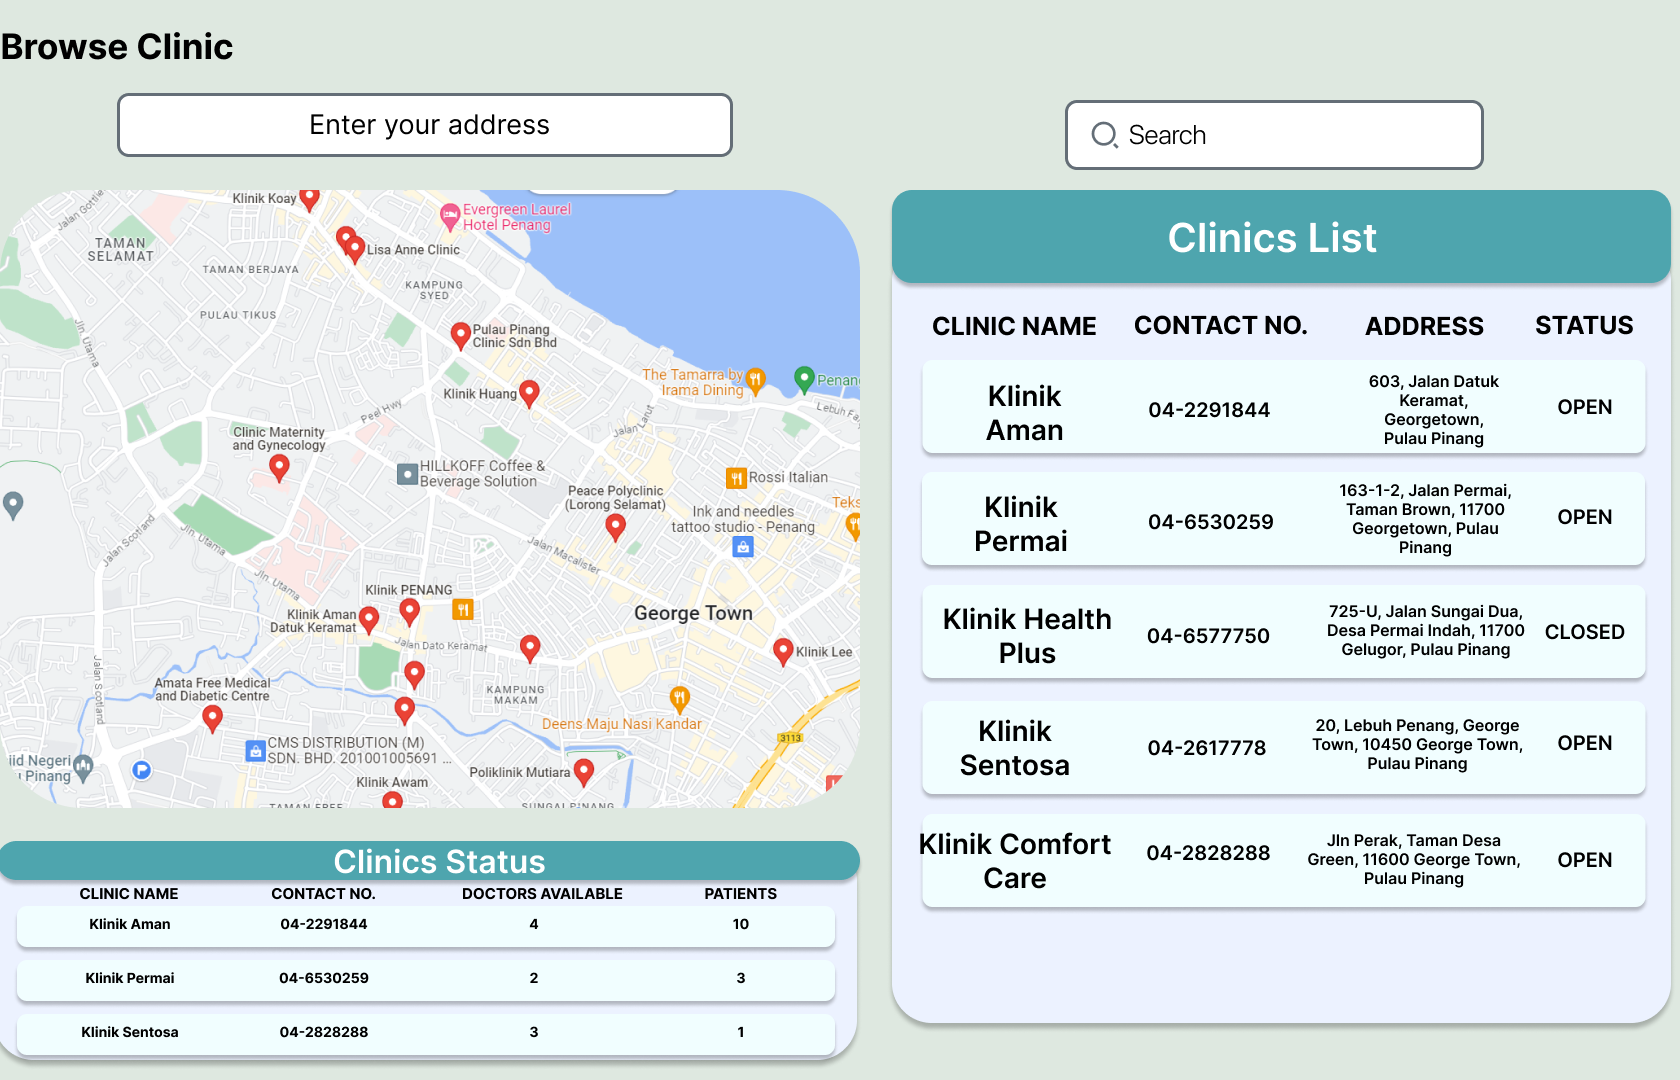
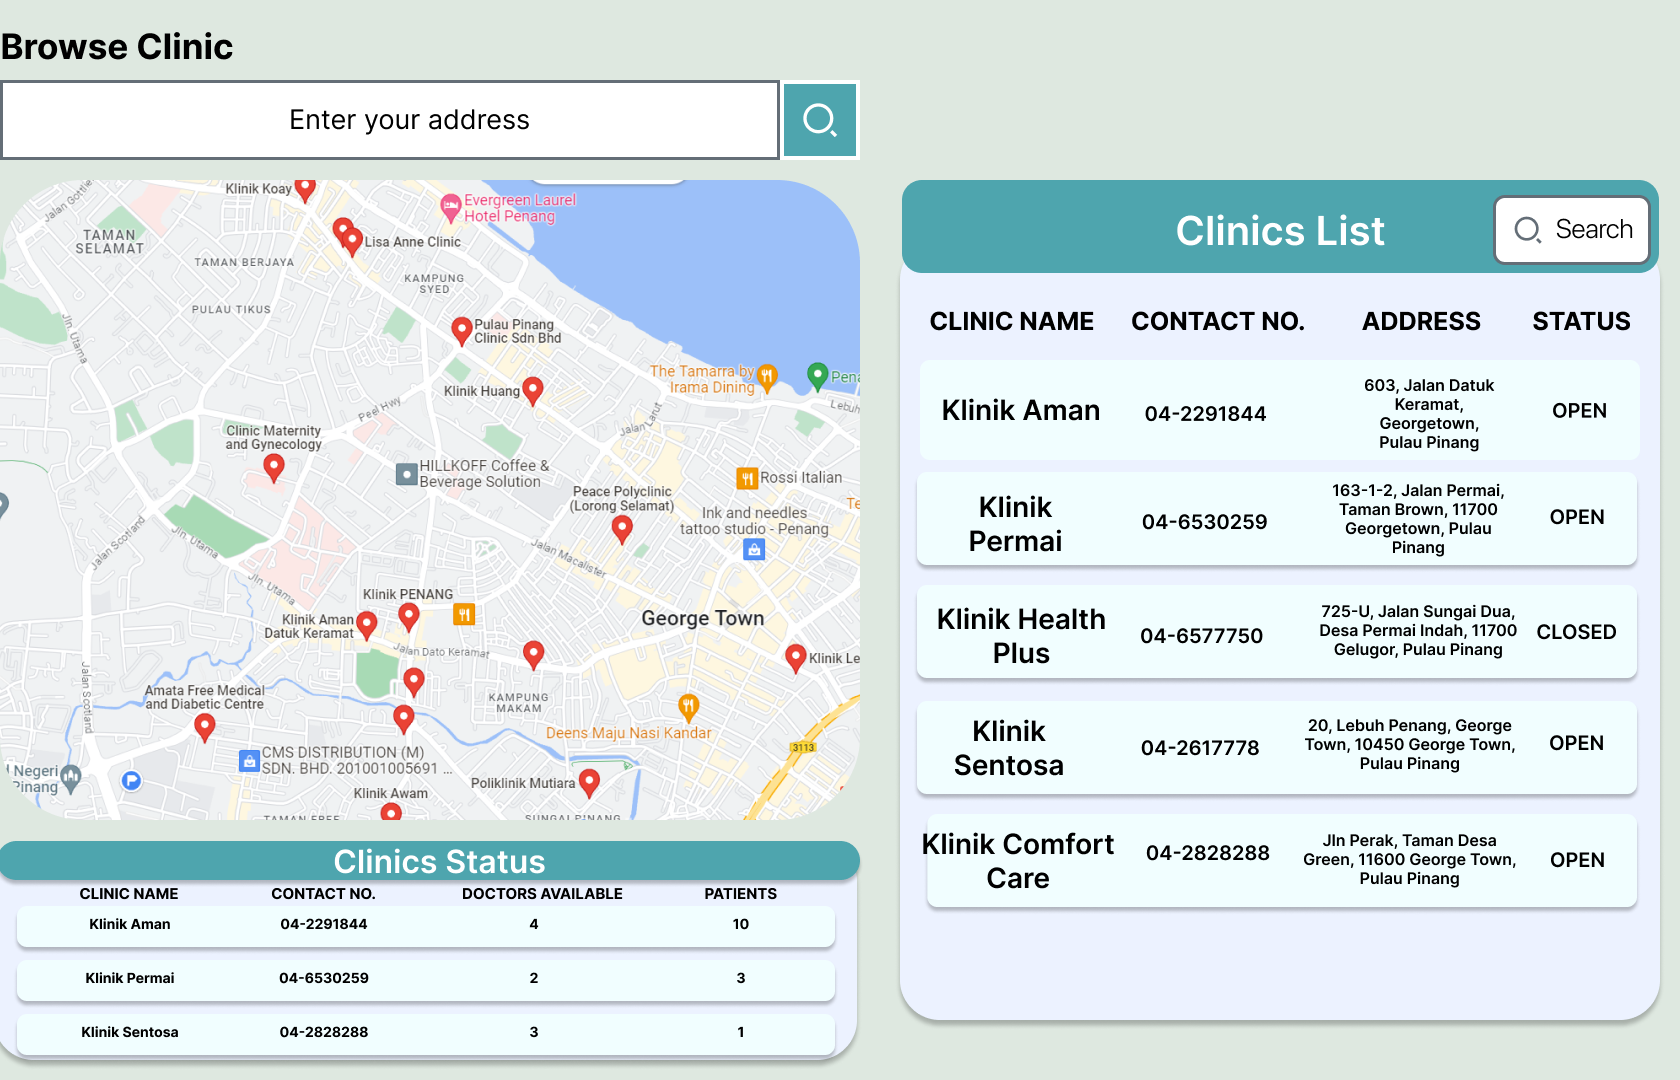
adding some code to have clinic creation for admin reg

diff --git a/views/registrationForms/adminForm.py b/views/registrationForms/adminForm.py
@@ -25,7 +25,7 @@ import tkintermapview
 
 
 class AdminRegistrationForm(Frame):
-    def __init__(self, parent=None, controller: ElementCreator = None):
+    def __init__(self, parent: RegistrationPage = None, controller: ElementCreator = None):
         super().__init__(parent, width=1, height=1,
                          bg="#dee8e0", name="roleregistrationform")
         self.controller = controller
@@ -38,7 +38,11 @@ class AdminRegistrationForm(Frame):
         self.createElements()
 
     def createFrames(self):
-        pass
+        self.inputframe = self.controller.frameCreator(
+            x=40, y=100, framewidth=720, frameheight=780,
+            bg=WHITE, classname="inputframe", root=self
+        )
+        self.inputframe.grid_remove()
 
     def createElements(self):
         self.controller.labelCreator(
@@ -47,6 +51,7 @@ class AdminRegistrationForm(Frame):
         )
         self.createLabels()
         self.createButtons()
+        self.createVars()
 
     def createLabels(self):
         self.roleImg = self.controller.labelCreator(
@@ -55,11 +60,11 @@ class AdminRegistrationForm(Frame):
         )
 
     def createButtons(self):
-        OPT1STR = "Clinic Information"
-        OPT2STR = "Upload Clinic Image"
-        OPT3STR = "Manage Doctors"
-        OPT4STR = "Other Information"
-        optList = [OPT1STR, OPT2STR, OPT3STR, OPT4STR]
+        self.OPT1STR = "Clinic Details"
+        self.OPT2STR = "Upload Clinic Image"
+        self.OPT3STR = "Manage Doctors"
+        self.OPT4STR = "Other Information"
+        optList = [self.OPT1STR, self.OPT2STR, self.OPT3STR, self.OPT4STR]
         # creating a button arrangement of two per row
         # iterates over the list of options and creates a button for each
         for i, option in enumerate(optList):
@@ -76,9 +81,187 @@ class AdminRegistrationForm(Frame):
             x=1420, y=880, classname="completeregbutton", root=self.parent,
             buttonFunction=lambda: self.confirmSubmission()
         )
+        self.closebutton = self.controller.buttonCreator(
+            ipath="assets/Registration/Close.png", x=80, y=680,
+            classname="reg_closebutton", root=self.inputframe,
+            buttonFunction=lambda: [self.inputframe.grid_remove()]
+        )
+        self.savebutton = self.controller.buttonCreator(
+            ipath="assets/Registration/Save.png", x=420, y=680,
+            classname="reg_savebutton", root=self.inputframe,
+            buttonFunction=lambda: [print('test')]
+        )
+        self.closebutton.grid_remove()
+        self.savebutton.grid_remove()
+
+    def createVars(self):
+        self.clinicnameVar = StringVar()
+        self.clinicaddressVar = StringVar()
+        self.cliniccityVar = StringVar()
+        self.clinicstateVar = StringVar()
+        self.cliniczipVar = StringVar()
+        self.cliniccontactnumberVar = StringVar()
 
     def loadSpecificSubmission(self, option: str):
-        print(option)
+
+        if option == self.OPT1STR:
+            self.loadClinicInformation(option)
+        elif option == self.OPT2STR:
+            self.loadUploadClinicImage(option)
+        elif option == self.OPT3STR:
+            self.loadManageDoctors(option)
+        elif option == self.OPT4STR:
+            self.loadOtherInformation(option)
+
+    def loadClinicInformation(self, option: str):
+        frame = self.inputframe
+        self.inputframe.grid()
+        self.inputframe.tkraise()
+        infolabel = self.controller.textElement(
+            ipath="assets/Registration/InputFormTextBG.png", x=0, y=0,
+            classname="inputformtext", root=frame, text=f"Input your {option} here",
+            size=30, font=INTER
+        )
+        bg = self.controller.labelCreator(
+            ipath="assets/Registration/Admin/ClinicInfoLabelBg.png", x=0, y=80,
+            classname="clinicinfobg", root=frame
+        )
+        bg.tk.call("lower", bg._w)
+        vars = [self.clinicnameVar, self.clinicaddressVar, self.cliniccityVar,
+                self.clinicstateVar, self.cliniczipVar, self.cliniccontactnumberVar
+                ]
+        if any([var.get() != "" for var in vars]):
+            self.loadClinicInformationInput()
+        else:
+            self.createClinicInfoEntries(frame)
+
+        self.savebutton.config(
+            command=lambda: [
+                self.saveClinicInformation()]
+        )
+        self.loadCloseAndSaveButtons()
+
+    def createClinicInfoEntries(self, frame):
+        CREATOR = self.controller.ttkEntryCreator
+        X, Y, W, H, R, CN, PH = "x", "y", "width", "height", "root", "classname", "placeholder"
+        param = {
+            "clinicname": {
+                X: 40,
+                Y: 120,
+                W: 640,
+                H: 80,
+                CN: "clinicnameentry",
+                R: frame,
+                PH: "Clinic Name"
+            },
+            "clinicaddress": {
+                X: 40,
+                Y: 240,
+                W: 640,
+                H: 80,
+                CN: "clinicaddressentry",
+                R: frame,
+                PH: "Clinic Address"
+            },
+            "cliniccontactnumber": {
+                X: 40,
+                Y: 360,
+                W: 300,
+                H: 80,
+                CN: "cliniccontactnumberentry",
+                R: frame,
+                PH: "Clinic Contact Number"
+            },
+            "cliniccity": {
+                X: 380,
+                Y: 360,
+                W: 300,
+                H: 80,
+                CN: "cliniccityentry",
+                R: frame,
+                PH: "Clinic City"
+            },
+            "clinicstate": {
+                X: 40,
+                Y: 480,
+                W: 300,
+                H: 80,
+                CN: "clinicstateentry",
+                R: frame,
+                PH: "Clinic State"
+            },
+            "cliniczip": {
+                X: 380,
+                Y: 480,
+                W: 300,
+                H: 80,
+                CN: "cliniczipentry",
+                R: frame,
+                PH: "Clinic Zip"
+            },
+        }
+        for p in param:
+            CREATOR(**param[p])
+
+    def loadClinicInformationInput(self):
+        WD = self.controller.widgetsDict
+        WD["clinicnameentry"].delete(0, END)
+        WD["clinicaddressentry"].delete(0, END)
+        WD["cliniccontactnumberentry"].delete(0, END)
+        WD["cliniccityentry"].delete(0, END)
+        WD["clinicstateentry"].delete(0, END)
+        WD["cliniczipentry"].delete(0, END)
+        WD["clinicnameentry"].insert(0, self.clinicnameVar.get())
+        WD["clinicaddressentry"].insert(0, self.clinicaddressVar.get())
+        WD["cliniccontactnumberentry"].insert(
+            0, self.cliniccontactnumberVar.get())
+        WD["cliniccityentry"].insert(0, self.cliniccityVar.get())
+        WD["clinicstateentry"].insert(0, self.clinicstateVar.get())
+        WD["cliniczipentry"].insert(0, self.cliniczipVar.get())
+
+    def saveClinicInformation(self):
+        WD = self.controller.widgetsDict
+        self.clinicnameVar.set(
+            WD["clinicnameentry"].get())
+        self.clinicaddressVar.set(
+            WD["clinicaddressentry"].get())
+        self.cliniccontactnumberVar.set(
+            WD["cliniccontactnumberentry"].get())
+        self.cliniccityVar.set(
+            WD["cliniccityentry"].get())
+        self.clinicstateVar.set(
+            WD["clinicstateentry"].get())
+        self.cliniczipVar.set(
+            WD["cliniczipentry"].get())
+        msg = f"""
+        Clinic Information Saved!
+        Name: {self.clinicnameVar.get()}
+        Address: {self.clinicaddressVar.get()}
+        Contact Number: {self.cliniccontactnumberVar.get()}
+        City: {self.cliniccityVar.get()}
+        State: {self.clinicstateVar.get()}
+        Zip: {self.cliniczipVar.get()} 
+        """
+        Messagebox.show_info(
+            title="Clinic Information",
+            message=msg,
+            parent=self.inputframe
+        )
+
+    def loadCloseAndSaveButtons(self):
+        self.closebutton.grid()
+        self.savebutton.grid()
+        self.closebutton.tkraise()
+        self.savebutton.tkraise()
+
+    def loadUploadClinicImage(self):
+        pass
+
+    def loadManageDoctors(self):
+        pass
+
+    def loadOtherInformation(self):
+        pass
 
     def confirmSubmission(self):
         prisma = self.prisma
@@ -93,7 +276,7 @@ class AdminRegistrationForm(Frame):
         dateStr = self.parent.dateOfBirthEntry.get()  # "%d/%m/%Y"
         # datetimeObj
         dateObj = datetime.strptime(dateStr, "%d/%m/%Y")
-        doctor = prisma.doctor.create(
+        clinicAdmin = prisma.clinicadmin.create(
             data={
                 "user": {
                     "create": {
@@ -113,5 +296,15 @@ class AdminRegistrationForm(Frame):
                         "country": self.country,
                     }
                 },
+                "clinic": {
+                    "create": {
+                        "name": self.clinicnameVar.get(),
+                        "address": self.clinicaddressVar.get(),
+                        "city": self.cliniccityVar.get(),
+                        "state": self.clinicstateVar.get(),
+                        "zip": self.cliniczipVar.get(),
+                        "phoneNum": self.cliniccontactnumberVar.get(),
+                    }
+                }
             }
         )

diff --git a/views/dashboard/patientDashboard.py b/views/dashboard/patientDashboard.py
@@ -101,27 +101,32 @@ class PatientDashboard(Frame):
 
     def loadDashboardButtons(self):
         CREATOR = self.controller.buttonCreator
+        IP, X, Y, CN, R, BF = "ipath", "x", "y", "classname", "root", "buttonFunction"
         params = {
             "findbrowseclinic": {
-                "ipath": "assets/Dashboard/PatientAssets/PatientDashboard/PatientFindBrowseClinic.png",
-                "x": 40, "y": 180,
-                "classname": "dash_findbrowseclinic",
-                "root": self,
-                "buttonFunction": lambda: [self.loadBrowseClinic()]
+                IP: "assets/Dashboard/PatientAssets/PatientDashboard/PatientFindBrowseClinic.png",
+                X: 40,
+                Y: 180,
+                CN: "dash_findbrowseclinic",
+                R: self,
+                BF: lambda: [self.loadBrowseClinic()]
             },
             "searchbyspecialist": {
-                "ipath": "assets/Dashboard/PatientAssets/PatientDashboard/SearchBySpeciality.png",
-                "x": 40, "y": 300,
-                "classname": "dash_searchbyspecialist",
-                "root": self,
-                "buttonFunction": lambda: [self.loadBrowseClinic()]
+                IP: "assets/Dashboard/PatientAssets/PatientDashboard/SearchBySpeciality.png",
+                X: 40,
+                Y: 300,
+                CN: "dash_searchbyspecialist",
+                R: self,
+                BF: lambda: [self.loadBrowseClinic()]
             },
             "dash_viewappointments": {
-                "ipath": "assets/Dashboard/PatientAssets/PatientDashboard/ViewAppointments.png",
-                "x": 40, "y": 420,
-                "classname": "dash_viewappointments",
-                "root": self,
-                "buttonFunction": lambda: [self.loadViewAppointments()]
+                IP: "assets/Dashboard/PatientAssets/PatientDashboard/ViewAppointments.png",
+                X: 40,
+                Y: 420,
+                CN: "dash_viewappointments",
+                R: self,
+                BF: lambda: [self.loadViewAppointments()]
             },
         }
-        self.patientFindBrowseClinic = CREATOR(**params["findbrowseclinic"])
+        for param in params:
+            CREATOR(**params[param])

diff --git a/resource/basewindow.py b/resource/basewindow.py
@@ -377,7 +377,7 @@ class ElementCreator(ttk.Window):
 
         return menubutton
 
-    def ttkEntryCreator(self, x=None, y=None, width=None, height=None, root=None, classname=None, bgcolor=WHITE, relief=FLAT, font=("Helvetica", 16), fg=BLACK, validation=False, passwordchar="*", captchavar=None, isPlaced=False) -> ttk.Entry:
+    def ttkEntryCreator(self, x=None, y=None, width=None, height=None, root=None, classname=None, bgcolor=WHITE, relief=FLAT, font=("Helvetica", 16), fg=BLACK, validation=False, passwordchar="*", captchavar=None, isPlaced=False, placeholder=None) -> ttk.Entry:
         """
         Takes in arguments x, y, width, height, from Figma, creates a frame,\n
         and places a ttk.Entry inside of it. The ttk.Entry is then returned into the global dict of widgets.\n
@@ -419,10 +419,10 @@ class ElementCreator(ttk.Window):
             else:
                 return False
 
-        themename = f"{str(root).split('.')[-1]}.TEntry"
-        ttk.Style().configure(
-            style=themename, font=font, background=NICEBLUE, foreground=BLACK,
-        )
+        # themename = f"{str(root).split('.')[-1]}.TEntry"
+        # ttk.Style().configure(
+        #     style=themename, font=font, background=NICEBLUE, foreground=BLACK,
+        # )
         entry = ttk.Entry(frame, bootstyle=PRIMARY, foreground=fg,
                           name=classname, font=font, background=bgcolor)
         entry.grid(row=0, column=0, rowspan=heightspan,
@@ -447,6 +447,16 @@ class ElementCreator(ttk.Window):
             # just not blank
             add_regex_validation(widget=entry, pattern="^.*\S.*$")
             pass
+
+        def entryEnter(event):
+            entry.config(foreground=BLACK)
+        if placeholder:
+            entry.insert(0, placeholder)
+            entry.config(foreground="#bfbfbf")
+            entry.bind("<FocusIn>", lambda e: [[entry.delete(0, END) if entry.get(
+            ) == placeholder else None], entry.config(foreground=BLACK)])
+            entry.bind("<FocusOut>", lambda e: [entry.insert(0, placeholder), entry.config(
+                foreground="#bfbfbf")] if entry.get() == "" else None)
 
         self.widgetsDict[classname] = entry
         self.updateWidgetsDict(root=root)

diff --git a/views/browseClinic/patientBrowse.py b/views/browseClinic/patientBrowse.py
@@ -26,7 +26,7 @@ class PatientBrowseClinic(Frame):
         self.parent = parent
         gridGenerator(self, 84, 54, "#dee8e0")
         self.grid(row=0, column=12, columnspan=84, rowspan=54, sticky=NSEW)
-        
+
         self.prisma = self.controller.mainPrisma
         self.createFrames()
         self.createElements()
@@ -38,4 +38,32 @@ class PatientBrowseClinic(Frame):
         self.controller.labelCreator(
             ipath="assets/BrowseClinic/Patient/BG.png",
             x=0, y=0, classname="secondarypanelbg", root=self
+        )
+        self.createButtons()
+        self.createEntry()
+
+    def createButtons(self):
+        CREATOR = self.controller.buttonCreator
+        IP, X, Y, CN, R, BF = "ipath", "x", "y", "classname", "root", "buttonFunction"
+        name = "browseclinic"
+        params = {
+            "searchbutton": {
+                IP: "assets/BrowseClinic/Patient/Search.png",
+                X: 780,
+                Y: 80,
+                CN: f"{name}_searchbtn",
+                R: self,
+                BF: lambda: [print('test')]
+            },
+        }
+        for param in params:
+            CREATOR(**params[param])
+
+    def createEntry(self):
+        CREATOR = self.controller.ttkEntryCreator
+        self.searchEntry = CREATOR(
+            x=0, y=80,
+            width=780, height=80,
+            classname="searchentry", root=self,
+            placeholder="Search for clinics"
         )
